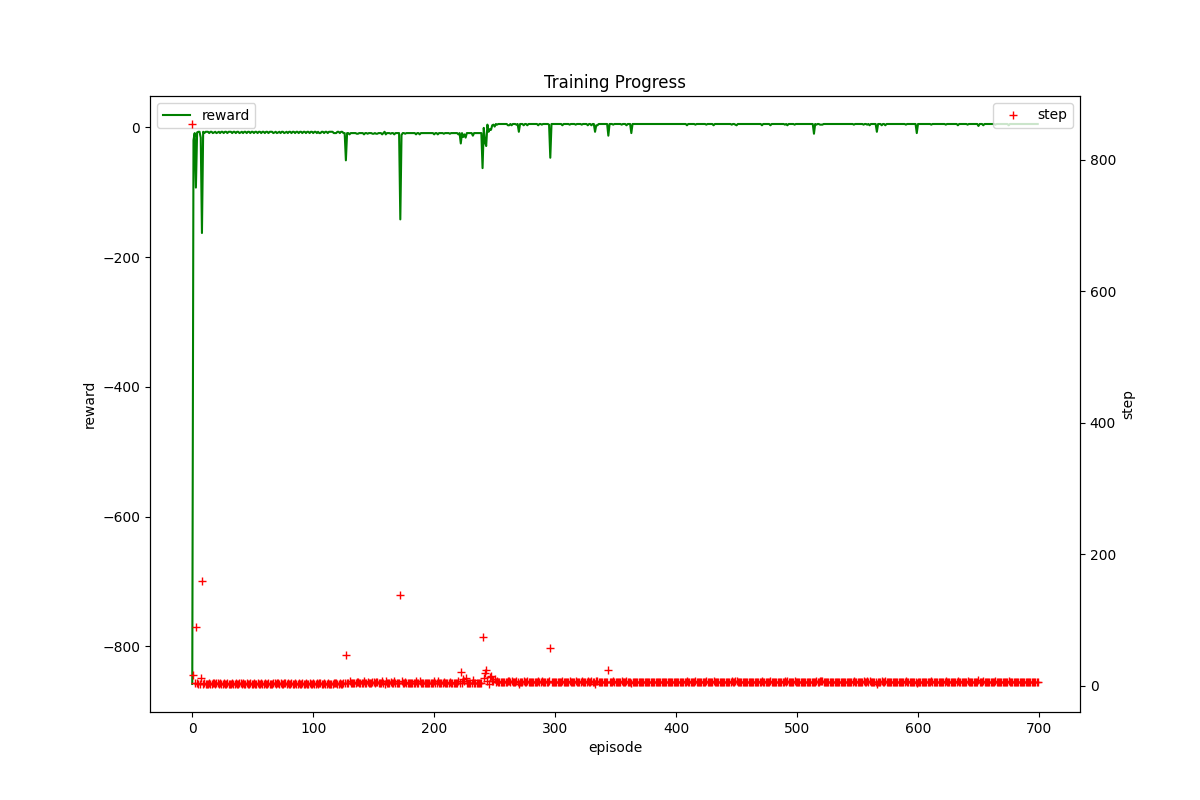
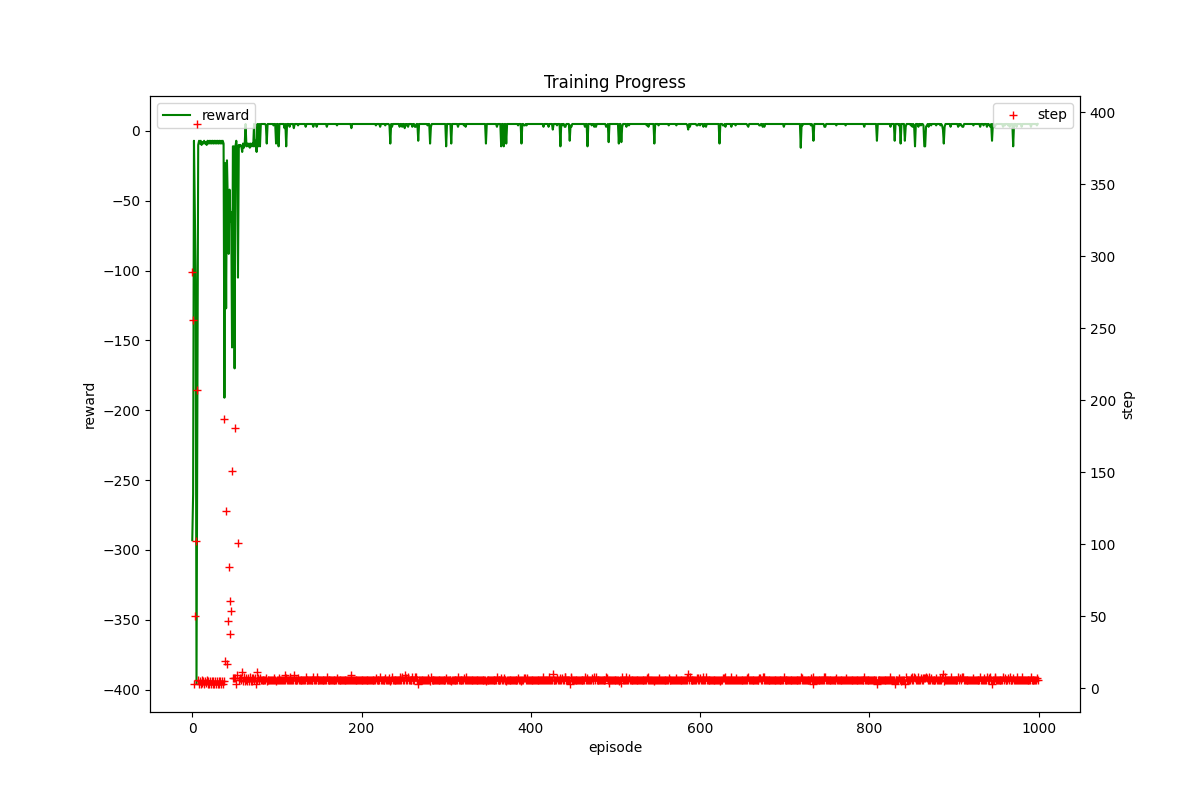
testing multiple traps

diff --git a/Training/qlearning_training.py b/Training/qlearning_training.py
@@ -10,13 +10,14 @@ from matplotlib import pyplot as plt
 
 
 # parameters of learning
-alpha = 0.5 # learning rate, learn more quickly if alpha is closer to 1
+alpha = 0.5  # learning rate, learn more quickly if alpha is closer to 1
 gamma = 0.6  # use a higher gamma for smaller spaces because we value later rewards rather than former rewards
 epsilon = 0.05  # agent can do 100% exploitation (0) or 100% exploration (1)
 
-action_space = [0,1,2,3]
+action_space = [0, 1, 2, 3]
 
-NUM_EPISODES = 700
+NUM_EPISODES = 1000
+
 
 '''action space:
     0 - south (up)
@@ -32,7 +33,7 @@ def select_optimal_action(state, actions_allowed):
             pass
         else:
             Q[state][i] = 0
-    #print(Q[state])
+    # print(Q[state])
     optimal = np.argmax(Q[state], axis=0)
     if Q[state][optimal] == 0.:
         optimal = np.argmin(Q[state], axis=0)
@@ -43,37 +44,40 @@ def select_optimal_action(state, actions_allowed):
 def identifies_index(state):
     for i in range(enviromentsize):
         for j in range(enviromentsize):
-                if state_matrix[i][j] == state:
-                    return i, j
+            if state_matrix[i][j] == state:
+                return i, j
+
 
 def identifies_state_matrix(i, j):
     return state_matrix[i][j]
 # verificar se tomando uma nova decisão não tomei a mesma anteriormente pra evitar caminhos longos
+
+
 def next_step(action, state, goal_state):
-  
     if state == goal_state:
         return 10, state
-    elif state == trap_state:
+    elif state == trap_state: 
         return -5, state
     else:
         i, j = identifies_index(state)
 
-        #up
+        # up
         if action == 0 and i > 0:
-                i -= 1
+            i -= 1
             # Move left
         elif action == 1 and j > 0:
-                j -= 1
+            j -= 1
             # Move down
         elif action == 2 and i < enviromentsize - 1:
-                i += 1
+            i += 1
             # Move right
         elif action == 3 and j < enviromentsize - 1:
-                j += 1
+            j += 1
 
-        next_state = identifies_state_matrix(i,j)
+        next_state = identifies_state_matrix(i, j)
         reward = -1
         return reward, int(next_state)
+
 
 def checking_allowed_spaces(state):
     if (state == 5 or state == 6 or state == 9 or state == 10):
@@ -83,7 +87,7 @@ def checking_allowed_spaces(state):
     elif (state == 1 or state == 2):
         return np.array([1, 2, 3])
     elif state == 3:
-        return np.array([1,3])
+        return np.array([1, 3])
     elif state == 4 or state == 8:
         return np.array([0, 1, 2])
     elif state == 7 or state == 11:
@@ -96,37 +100,32 @@ def checking_allowed_spaces(state):
         return np.array([0, 3])
 
 
-def update( enviroment, state, old_state, episode, steps):
+def update(enviroment, state, old_state, episode, steps):
     # print('updating')
     done = False
     #action_space = checking_allowed_spaces(state)
     if random.uniform(0, 1) < epsilon:
         action = random.choice(action_space)
-
     else:
-
         action = select_optimal_action(state, action_space)
-
     # get the reward of choosing current action and the next state
     reward, next_state = next_step(action, state, goal_state)
 
-    if reward == 10 or reward==-5:
+    if reward == 10 or reward == -5:
         done = True
     # stores the old_state to not going back avoiding loopings in the same square
-    
     old_state = state
 
     # get maximum q_value for action in next state
-    
     next_max_state_q_value = np.max(Q[next_state])
-
-    Q[state][action] += alpha*(reward + gamma*next_max_state_q_value - Q[state][action])
+    Q[state][action] += alpha * \
+        (reward + gamma*next_max_state_q_value - Q[state][action])
 
     return next_state, reward, old_state, done
 
 
 def training_agent(enviroment, num_episodes, env_size):
-    global goal_state, steps, rewards, training_start, training_end, penalties, trap_state
+    global goal_state, steps, rewards, training_start, training_end, penalties, trap_state 
     training_start = time()
     steps = []
     rewards = []
@@ -141,13 +140,14 @@ def training_agent(enviroment, num_episodes, env_size):
         m, n = identifies_trap(enviroment, env_size)
         state = int(state_matrix[i][j])
         goal_state = int(state_matrix[k][l])
-        trap_state =  int(state_matrix[m][n])
+        trap_state = int(state_matrix[m][n])
         states.append(state)
         epochs = 0
         num_penalties, reward, total_reward, old_state = 0, 0, 0, 0
         done = False
         while not done:
-            state, reward, old_state, done = update(enviroment, state, old_state, num_episodes, epochs)
+            state, reward, old_state, done = update(
+                enviroment, state, old_state, num_episodes, epochs)
             total_reward += reward
             epochs += 1
             #print(state, reward, old_state, done, goal_state)
@@ -156,7 +156,7 @@ def training_agent(enviroment, num_episodes, env_size):
         steps.append(epochs)
         rewards.append(total_reward)
         penalties.append(num_penalties)
-        
+
         print("Time steps: {}, Penalties: {}, Reward: {}, Goal State: {}, Epsilon:{}, Episode:{}".format(
             epochs, num_penalties, total_reward, goal_state, epsilon, episode))
         print(states)
@@ -164,7 +164,6 @@ def training_agent(enviroment, num_episodes, env_size):
     training_end = time()
 
     # print(rewards)
-
 
 
 def evaluate_training():
@@ -222,8 +221,8 @@ def reset_enviroment(enviroment, env_size):  # changes the goal to another place
         j += 1
     enviroment[2][3] = 20
     enviroment[1][1] = -1
+    enviroment[1][2] = -1
     enviroment[0][0] = 1
-
     return enviroment
 
 
@@ -249,12 +248,14 @@ def identifiesgoal_state(enviroment, env_size):
             if enviroment[i][j] == 20:
                 return i, j
 
+
 def identifies_trap(enviroment, env_size):
     for i in range(env_size):
         for j in range(env_size):
             if enviroment[i][j] == -1:
                 return i, j
 # plot desired matrix
+
 
 def plot_matrix(matrix, x_size, y_size):
     figure, ax = plt.subplots()
@@ -274,7 +275,8 @@ def main():
     env = np.zeros((enviromentsize, enviromentsize))
     env = reset_enviroment(env, enviromentsize)
     actions_size = enviromentsize  # lef, right, up and down
-    state_matrix = initialize_state_matrix(np.zeros((enviromentsize, enviromentsize)), enviromentsize)
+    state_matrix = initialize_state_matrix(
+        np.zeros((enviromentsize, enviromentsize)), enviromentsize)
     Q = np.zeros((state_size, actions_size))  # initializing q-table with zeros
     Q.shape
     training_agent(env, NUM_EPISODES, enviromentsize)

diff --git a/pickle_ideal_sem_loops/qlearning_training.py b/pickle_ideal_sem_loops/qlearning_training.py
@@ -14,7 +14,7 @@ alpha = 0.5  # learning rate, learn more quickly if alpha is closer to 1
 gamma = 0.6  # use a higher gamma for smaller spaces because we value later rewards rather than former rewards
 epsilon = 0.05  # agent can do 100% exploitation (0) or 100% exploration (1)
 
-NUM_EPISODES = 15000
+NUM_EPISODES = 5000
 
 '''action space:
     0 - south (up)
@@ -45,7 +45,7 @@ def next_step(q_table, enviroment, action, state, old_state, goal_state):
             if action == 0 or action == 3:
                 return -10, state
             elif action == 1:
-                return 0, state+4
+                return 0, state+enviromentsize
             elif action == 2:
                 return 0, state+1
 
@@ -53,7 +53,7 @@ def next_step(q_table, enviroment, action, state, old_state, goal_state):
             if action == 0:
                 return -10, state
             elif action == 1:
-                reward, new_state = check_old_state(old_state, state+4)
+                reward, new_state = check_old_state(old_state, state+enviromentsize)
                 return reward, new_state
             elif action == 2:
                 reward, new_state = check_old_state(old_state, state+1)
@@ -64,10 +64,10 @@ def next_step(q_table, enviroment, action, state, old_state, goal_state):
 
         elif state == 5 or state == 6 or state == 9 or state == 10:
             if action == 0:
-                reward, new_state = check_old_state(old_state, state-4)
+                reward, new_state = check_old_state(old_state, state-enviromentsize)
                 return reward, new_state
             elif action == 1:
-                reward, new_state = check_old_state(old_state, state+4)
+                reward, new_state = check_old_state(old_state, state+enviromentsize)
                 return reward, new_state
             elif action == 2:
                 reward, new_state = check_old_state(old_state, state+1)
@@ -80,7 +80,7 @@ def next_step(q_table, enviroment, action, state, old_state, goal_state):
             if action == 0 or action == 2:
                 return -10, state
             elif action == 1:
-                reward, new_state = check_old_state(old_state, state+4)
+                reward, new_state = check_old_state(old_state, state+enviromentsize)
                 return reward, new_state
             elif action == 3:
                 reward, new_state = check_old_state(old_state, state-1)
@@ -88,10 +88,10 @@ def next_step(q_table, enviroment, action, state, old_state, goal_state):
 
         elif state == 7 or state == 11:
             if action == 0:
-                reward, new_state = check_old_state(old_state, state-4)
+                reward, new_state = check_old_state(old_state, state-enviromentsize)
                 return reward, new_state
             elif action == 1:
-                reward, new_state = check_old_state(old_state, state+4)
+                reward, new_state = check_old_state(old_state, state+enviromentsize)
                 return reward, new_state
             elif action == 2:
                 return -10, state
@@ -101,12 +101,12 @@ def next_step(q_table, enviroment, action, state, old_state, goal_state):
 
         elif state == 4 or state == 8:
             if action == 0:
-                reward, new_state = check_old_state(old_state, state-4)
+                reward, new_state = check_old_state(old_state, state-enviromentsize)
                 return reward, new_state
             elif action == 3:
                 return -10, state
             elif action == 1:
-                reward, new_state = check_old_state(old_state, state+4)
+                reward, new_state = check_old_state(old_state, state+enviromentsize)
                 return reward, new_state
             elif action == 2:
                 reward, new_state = check_old_state(old_state, state+1)
@@ -114,7 +114,7 @@ def next_step(q_table, enviroment, action, state, old_state, goal_state):
 
         elif state == 12:
             if action == 0:
-                reward, new_state = check_old_state(old_state, state-4)
+                reward, new_state = check_old_state(old_state, state-enviromentsize)
                 return reward, new_state
             elif action == 3 or action == 1:
                 return -10, state
@@ -124,7 +124,7 @@ def next_step(q_table, enviroment, action, state, old_state, goal_state):
 
         elif state == 13 or state == 14:
             if action == 0:
-                reward, new_state = check_old_state(old_state, state-4)
+                reward, new_state = check_old_state(old_state, state-enviromentsize)
                 return reward, new_state
             elif action == 3:
                 reward, new_state = check_old_state(old_state, state-1)
@@ -137,7 +137,7 @@ def next_step(q_table, enviroment, action, state, old_state, goal_state):
 
         elif state == 15:
             if action == 0:
-                reward, new_state = check_old_state(old_state, state-4)
+                reward, new_state = check_old_state(old_state, state-enviromentsize)
                 return reward, new_state
             elif action == 3:
                 reward, new_state = check_old_state(old_state, state-1)
@@ -306,7 +306,7 @@ def plot_matrix(matrix, x_size, y_size):
 
 
 def main():
-    global state_matrix
+    global state_matrix, enviromentsize
     enviromentsize = 4
     state_size = enviromentsize*enviromentsize  # defines environment
     env = np.zeros((enviromentsize, enviromentsize))

diff --git a/Training/qlearning_evaluate.py b/Training/qlearning_evaluate.py
@@ -1,42 +1,46 @@
 import numpy as np
 import pickle
-from qlearning_training import  reset_enviroment, initialize_state_matrix, identifiesgoal_state, identifies_state
+from qlearning_training import reset_enviroment, initialize_state_matrix, identifiesgoal_state, identifies_state
 
 action_space = np.array([0, 1, 2, 3])
+
 
 def identifies_index(state):
     for i in range(enviromentsize):
         for j in range(enviromentsize):
-                if state_matrix[i][j] == state:
-                    return i, j
+            if state_matrix[i][j] == state:
+                return i, j
+
 
 def identifies_state_matrix(i, j):
     return state_matrix[i][j]
 # verificar se tomando uma nova decisão não tomei a mesma anteriormente pra evitar caminhos longos
 
+
 def next_step(action, state, goal_state):
-  
+
     if state == goal_state:
         return 10, state
     else:
         i, j = identifies_index(state)
 
-        #up
+        # up
         if action == 0 and i > 0:
-                i -= 1
-            # Move left
+            i -= 1
+        # Move left
         elif action == 1 and j > 0:
-                j -= 1
-            # Move down
+            j -= 1
+        # Move down
         elif action == 2 and i < enviromentsize - 1:
-                i += 1
-            # Move right
+            i += 1
+        # Move right
         elif action == 3 and j < enviromentsize - 1:
-                j += 1
+            j += 1
 
-        next_state = identifies_state_matrix(i,j)
+        next_state = identifies_state_matrix(i, j)
         reward = -1
-        return reward, int(next_state) 
+        return reward, int(next_state)
+
 
 def select_optimal_action(state):
 
@@ -46,6 +50,7 @@ def select_optimal_action(state):
         optimal = np.argmin(Q[state], axis=0)
         print(state, optimal, Q[state][optimal])
     return optimal
+
 
 def select_optimal_path(q_table, enviroment):
     enviroment[0][0] = 1
@@ -62,7 +67,7 @@ def select_optimal_path(q_table, enviroment):
     done = False
     while(not done):
         action = select_optimal_action(state)
-        reward, next_state = next_step(action,state,goal_state)
+        reward, next_state = next_step(action, state, goal_state)
         state = next_state
         states.append(state)
         print(states)
